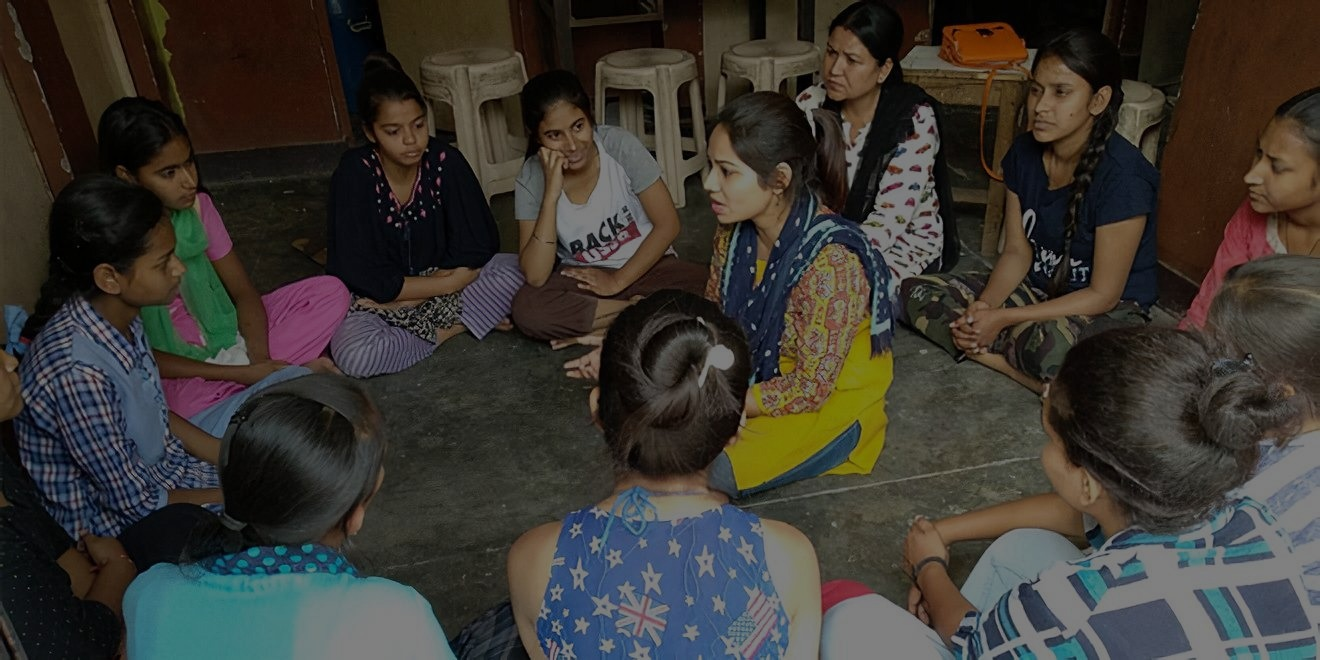
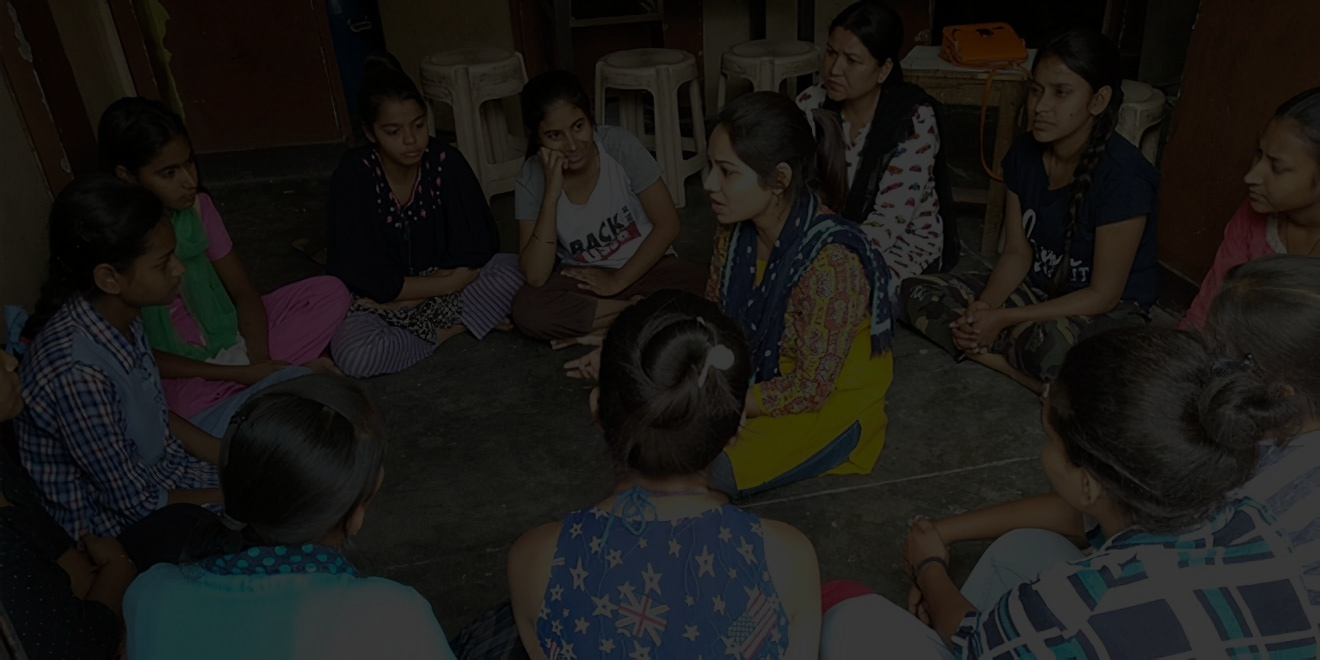
Background pics updated

diff --git a/donors.html b/donors.html
@@ -69,9 +69,8 @@
 
 
     <div class=" col-12 page2-heading">
-      <h3>WELCOME</h3><h2 id="welcome">USER_NAME_OF_DONOR</h2>
+      <h3 class>WELCOME</h3><h2 id="welcome">USER_NAME_OF_DONOR</h2>
     </div>
-
 
 
     <!--MAIN CONTENT FOR TABS-->
